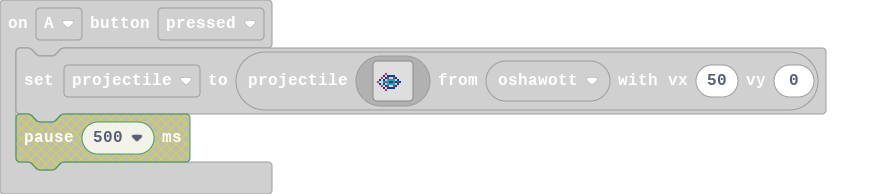
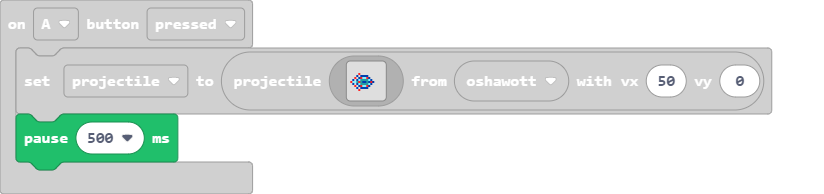
Update main.blocks, main.ts

diff --git a/main.ts b/main.ts
@@ -61,6 +61,7 @@ controller.A.onEvent(ControllerButtonEvent.Pressed, function () {
         . . . . . . . . . . . . . . . . 
         . . . . . . . . . . . . . . . . 
         `, oshawott, 50, 0)
+    pause(500)
 })
 let projectile: Sprite = null
 let oshawott: Sprite = null
